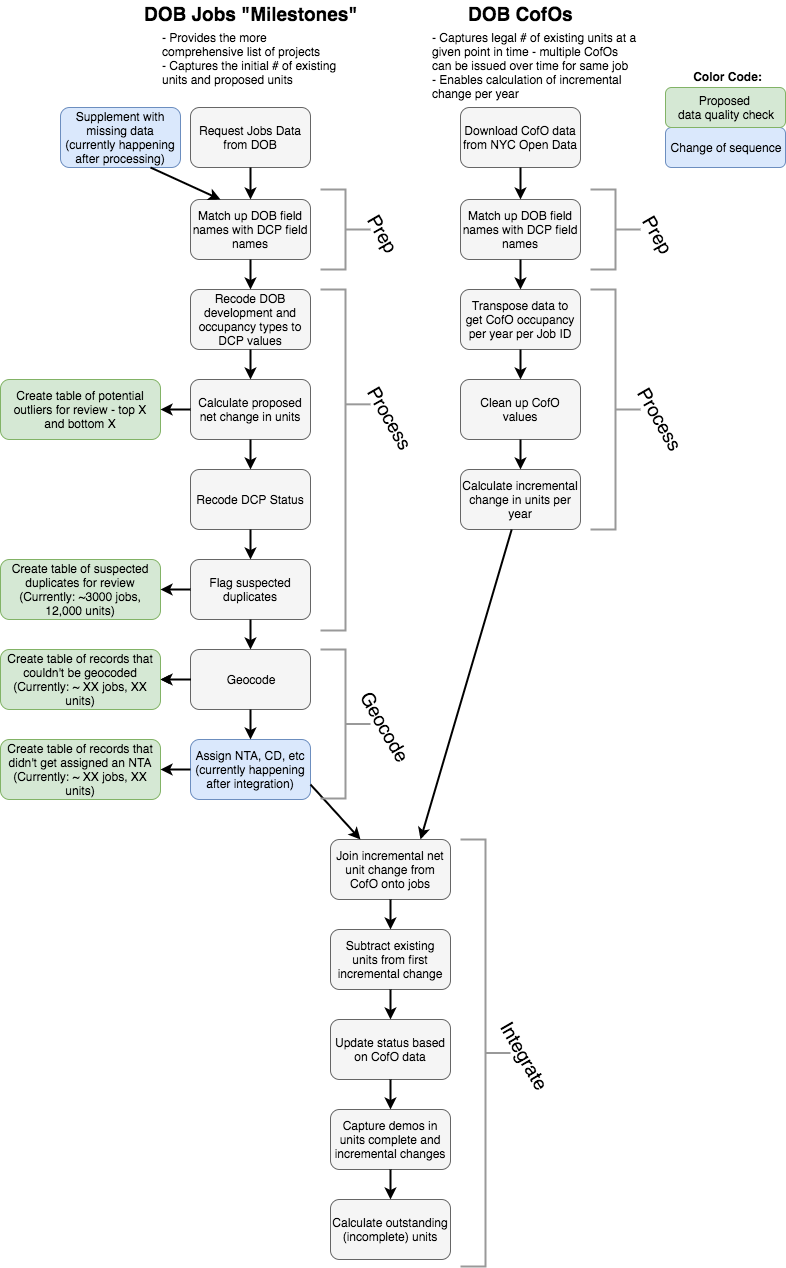
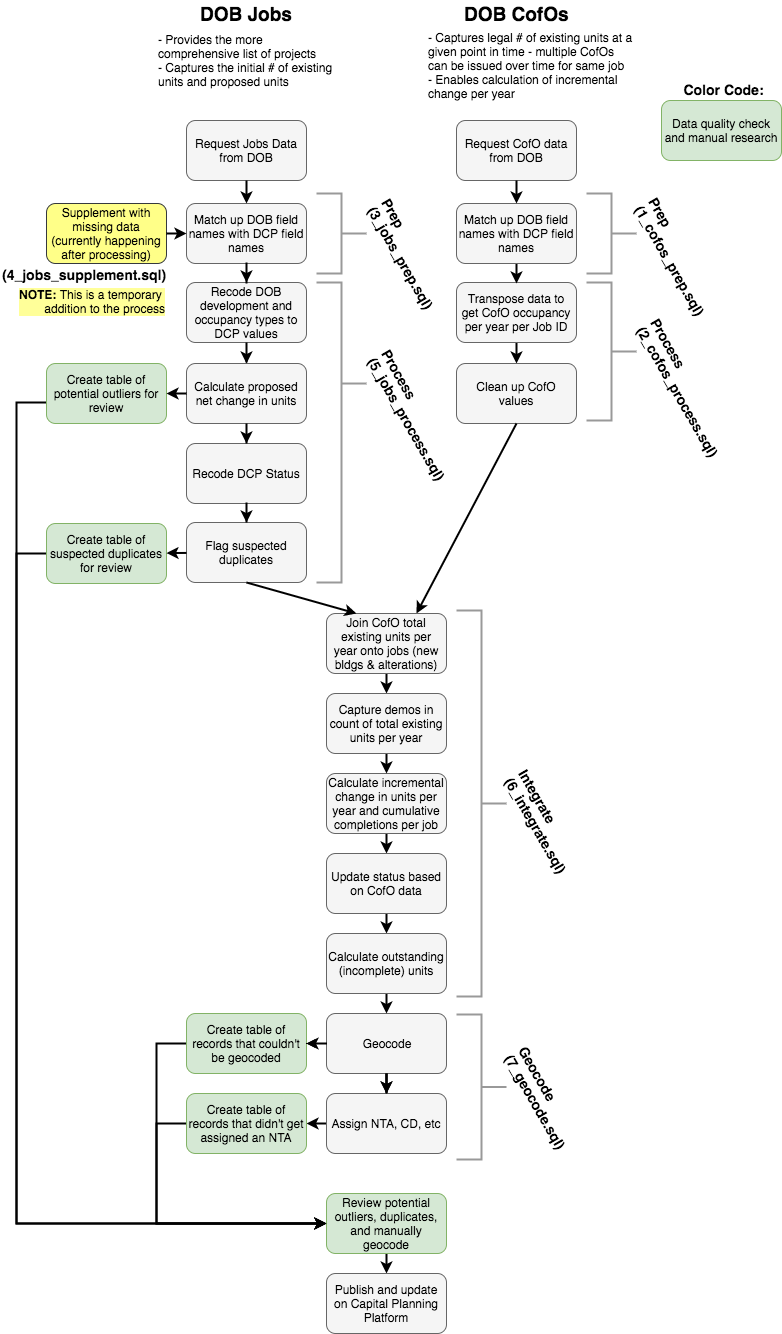
updated diagram and names of scripts

diff --git a/README.md b/README.md
@@ -1,5 +1,5 @@
 # Housing Developments Pipeline Database
-This repo contains SQL code used to build the Housing Development Pipeline Database in Carto.
+This repo contains SQL code used to build the Housing Development Pipeline Database in Carto and run frequenctly used analyses.
 
 ## Data Sources
 
@@ -9,7 +9,7 @@ This repo contains SQL code used to build the Housing Development Pipeline Datab
 - For each projects, the jobs data captures the initial # of existing units and proposed units.
 
 ### DOB Certificates of Occupancy (CofOs) Data
-- This data can be obtained via NYC Open data. The [CofO data](https://data.cityofnewyork.us/dataset/DOB-Certificate-Of-Occupancy/bs8b-p36w/data) is updated on a daily basis.
+- This data is also requested from DOB. It cannot yet be obtained via [NYC Open data](https://data.cityofnewyork.us/dataset/DOB-Certificate-Of-Occupancy/bs8b-p36w/data), because the open data is critically missing the number of dwelling units that each CofO certifies.
 - The CofOs data captures the legal # of existing units at a given point in time - multiple temporary CofOs can be issued over time for same job before the final CofO is given, meaning there can be multiple rows per job ID.
 - CofOs enable the calculation of incremental change in housing units per year.
 
@@ -20,13 +20,13 @@ The two datasets must be combined, because the jobs data doesn't capture change 
 
 | Script | Function |
 | :-- | :-- | 
-| 1_dob_cofos_prep.sql | This script renames the column names in the CofO data to DCP's preferred column names that are used in the rest of the SQL code. |
-| 2_dob_cofos_process.sql | This script aggregates CofOs to the DOB job ID, and transposes the data to capture the number of units reported per year in the CofO data. It then calculates the net incremental change in units per year based on the CofO units reported. |
-| 3_dob_jobs_prep.sql | This script renames the column names in the jobs data to DCP's preferred column names that are used in the rest of the SQL code. |
-| 4_dob_jobs_supplement.sql | Non-recurring step: This script supplements the new data with old housing pipeline data to fill in the gaps for records that were accidentially exlcuded during the most recent data transfer from DOB. |
-| 5_dob_jobs_process.sql | This script recodes DOB's labels to match DCP's preferred status, type, and occupancy values. It then calculates the proposed net change in units (units proposed - units existing) and flags potential duplicate records. |
-| 6_dob_jobs_geocode.sql | This script geocodes all the jobs records and assigns their NTA, CD, school district, etc. boundaries. |
-| 7_dob_jobs_integrate.sql | This script joins the CofO data onto the jobs data, including the incremental yearly net change calculations. The first incremental change value is corrected to subtract the number of existing units from the job application. The job status is updated to "complete" based on whether the final CofO has been issued. Demos are accounted for in the incremental net change fields, and the number of outstanding, incomplete units is calculated.
+| 1_cofos_prep.sql | This script renames the column names in the CofO data to DCP's preferred column names that are used in the rest of the SQL code. |
+| 2_cofos_process.sql | This script aggregates CofOs to the DOB job ID, and transposes the data to capture the number of units reported per year in the CofO data. It then calculates the net incremental change in units per year based on the CofO units reported. |
+| 3_jobs_prep.sql | This script renames the column names in the jobs data to DCP's preferred column names that are used in the rest of the SQL code. |
+| 4_jobs_supplement.sql | Non-recurring step: This script supplements the new data with old housing pipeline data to fill in the gaps for records that were accidentially exlcuded during the most recent data transfer from DOB. |
+| 5_jobs_process.sql | This script recodes DOB's labels to match DCP's preferred status, type, and occupancy values. It then calculates the proposed net change in units (units proposed - units existing) and flags potential duplicate records. |
+| 6_integrate.sql | This script joins the CofO data onto the jobs data, including the incremental yearly net change calculations. The first incremental change value is corrected to subtract the number of existing units from the job application. The job status is updated to "complete" based on whether the final CofO has been issued. Demos are accounted for in the incremental net change fields, and the number of outstanding, incomplete units is calculated.
+| 7_geocode.sql | This script geocodes all the jobs records and assigns their NTA, CD, school district, etc. boundaries. |
 
 ## Process Diagram
 
